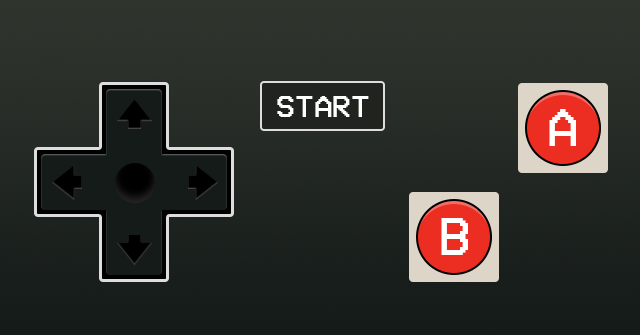
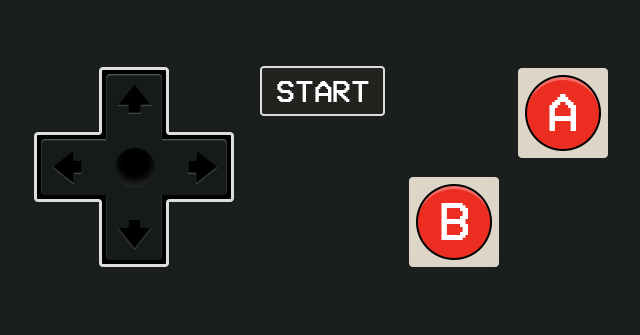
cleaned client code

diff --git a/Contents/Client/client.css b/Contents/Client/client.css
@@ -12,9 +12,7 @@ html {
 }
 
 body {
-  background: url('../Images/gamepad.png');
-  background-repeat: no-repeat;
-  background-size: auto auto;
+  background-color: #1a1f1d;
   width: 100%;
   height: 100%;
   font-family: VCR;
@@ -22,6 +20,16 @@ body {
   color: white;
   margin: 0;
   overflow: hidden;
+}
+
+.background {
+  position: absolute;
+  background: url('../Images/gamepad.png');
+  background-repeat: no-repeat;
+  background-size: 100% auto;
+  bottom: 0;
+  width: 100%;
+  height: 100%;
 }
 
 .player-color {
@@ -47,70 +55,3 @@ body {
 .player-yellow {
   background-color: #fff568;
 }
-
-.remote {
-  position: relative;
-  height: 100%;
-  width: 100%;
-}
-
-.remote-content {
-  opacity: 0;
-}
-
-.up-arrow {
-  position: absolute;
-  height: 16vh;
-  width: 9vw;
-  top: 14vw;
-  left: 16.7vw;
-}
-
-.right-arrow {
-  position: absolute;
-  height: 16vh;
-  width: 9vw;
-  top: 24.2vw;
-  left: 26.5vw;
-}
-
-.down-arrow {
-  position: absolute;
-  height: 16vh;
-  width: 9vw;
-  top: 34.5vw;
-  left: 16.4vw;
-}
-
-.left-arrow {
-  position: absolute;
-  height: 16vh;
-  width: 9vw;
-  top: 24.2vw;
-  left: 6.5vw;
-}
-
-.remote-start {
-  position: absolute;
-  height: 14vh;
-  width: 18vw;
-  top: 12.8vw;
-  left: 41.4vw;
-}
-
-.a-button {
-  position: absolute;
-  height: 26.5vh;
-  width: 13.5vw;
-  top: 13vw;
-  left: 81.2vw;
-}
-
-.b-button {
-  position: absolute;
-  height: 26.5vh;
-  width: 13.5vw;
-  top: 30.1vw;
-  left: 64.1vw;
-}
-

diff --git a/Contents/Client/client.html b/Contents/Client/client.html
@@ -7,32 +7,16 @@
   <title>Remote</title>
   <link rel="stylesheet" href="client.css">
 </head>
-<body 
-    oncontextmenu="return false"
-    unselectable="on"
-    onselectstart="return false;" 
-    onmousedown="return false;"
->
+<body>
 
   <div class="remote">
     <div id="player" class="player-color hook-player"></div>
-    <div class="remote-content">
-      <div class="remote-arrows">
-        <div class="up-arrow">&#8593</div>
-        <div class="right-arrow">&#8594</div>
-        <div class="down-arrow">&#8595</div>
-        <div class="left-arrow">&#8592</div>
-      </div>
-      <div class="remote-start">Start</div>
-      <div class="remote-buttons">
-        <div class="a-button">A</div>
-        <div class="b-button">B</div>
-      </div>
-    </div>
   </div>
+
+  <div class="background"></div>
   
-    <script type="text/javascript" src="maf-room.min.js"></script>
-    <script type="text/javascript" src="client.js"></script>
+  <script type="text/javascript" src="maf-room.min.js"></script>
+  <script type="text/javascript" src="client.js"></script>
 
 </body>
 </html>

diff --git a/Contents/Client/client.js b/Contents/Client/client.js
@@ -35,4 +35,20 @@
     room.send({ a: 'bu', b: 'a', p: player });
   });
   
+  // Find the right method, call on correct element
+  function launchIntoFullscreen(element) {
+    if(element.requestFullscreen) {
+      element.requestFullscreen();
+    } else if(element.mozRequestFullScreen) {
+      element.mozRequestFullScreen();
+    } else if(element.webkitRequestFullscreen) {
+      element.webkitRequestFullscreen();
+    } else if(element.msRequestFullscreen) {
+      element.msRequestFullscreen();
+    }
+  }
+
+  // Launch fullscreen for browsers that support it!
+  launchIntoFullscreen(document.documentElement); // the whole page
+    
 }());
